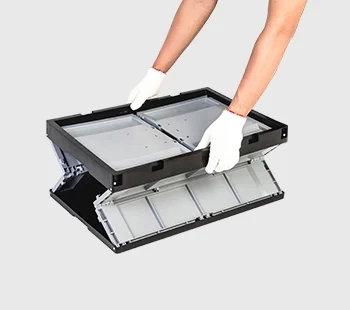
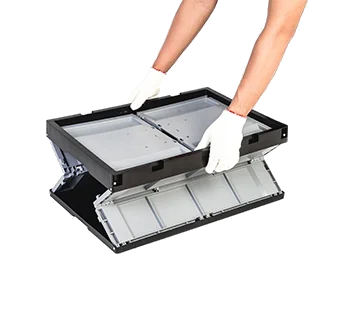
fix(products): remove opaque background from product images and harmonize with dark mode

diff --git a/src/components/NewProduct.tsx b/src/components/NewProduct.tsx
@@ -140,7 +140,10 @@ export default function NewProduct() {
           {/* ========================================================================= */}
           {/* RIGHT COLUMN: NATIVE SMOOTH SWIPE CAROUSEL (CSS SCROLL SNAP)               */}
           {/* ========================================================================= */}
-          <div className="bg-slate-100 dark:bg-slate-800/50 relative flex items-center justify-center p-4 sm:p-8 lg:p-10 overflow-hidden transition-colors duration-300">
+          <div className="bg-slate-100 dark:bg-slate-950 relative flex items-center justify-center p-4 sm:p-8 lg:p-10 overflow-hidden transition-colors duration-300 border-t lg:border-t-0 lg:border-l border-slate-200/60 dark:border-slate-800/80">
+            {/* Ambient Studio Lighting (Dark Mode Subtle Glow) */}
+            <div className="absolute inset-0 bg-[radial-gradient(circle_at_center,rgba(59,130,246,0.12),transparent_70%)] pointer-events-none opacity-0 dark:opacity-100 transition-opacity duration-500" />
+
             {/* Scroll Container with CSS Scroll Snap & Mouse Drag */}
             <div
               ref={scrollRef}
@@ -148,7 +151,7 @@ export default function NewProduct() {
               onMouseLeave={handleMouseLeave}
               onMouseUp={handleMouseUp}
               onMouseMove={handleMouseMove}
-              className={`flex w-full h-[400px] lg:h-[500px] overflow-x-auto snap-x snap-mandatory scroll-smooth cursor-grab active:cursor-grabbing [&::-webkit-scrollbar]:hidden [-ms-overflow-style:none] [scrollbar-width:none] ${
+              className={`relative z-10 flex w-full h-[400px] lg:h-[500px] overflow-x-auto snap-x snap-mandatory scroll-smooth cursor-grab active:cursor-grabbing [&::-webkit-scrollbar]:hidden [-ms-overflow-style:none] [scrollbar-width:none] ${
                 isDragging ? "cursor-grabbing select-none" : ""
               }`}
             >
@@ -164,7 +167,7 @@ export default function NewProduct() {
                     priority={index === 0}
                     sizes="(max-width: 1024px) 100vw, 50vw"
                     draggable={false}
-                    className="object-contain hover:scale-105 transition-transform duration-500 select-none"
+                    className="object-contain hover:scale-105 transition-transform duration-500 select-none dark:drop-shadow-[0_12px_24px_rgba(0,0,0,0.6)]"
                   />
                 </div>
               ))}
